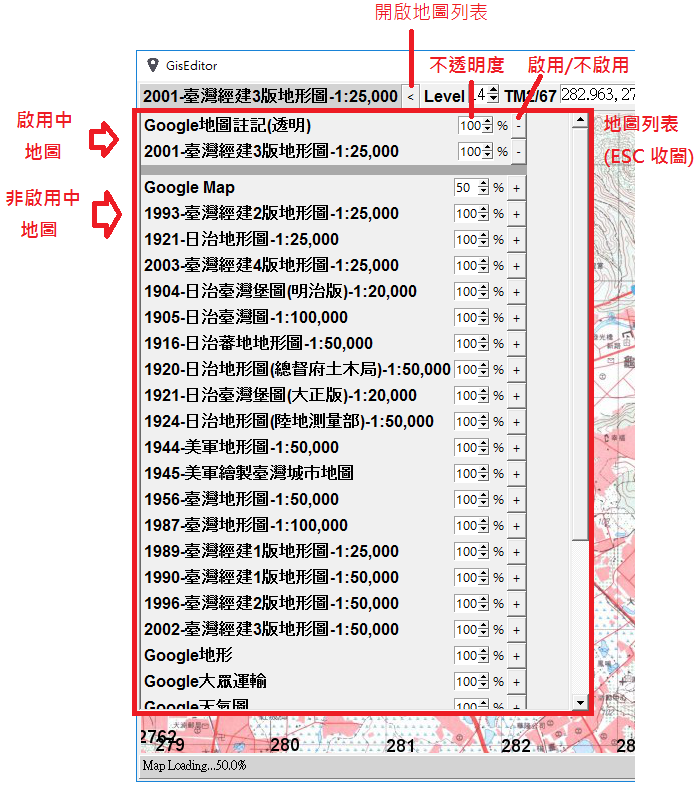
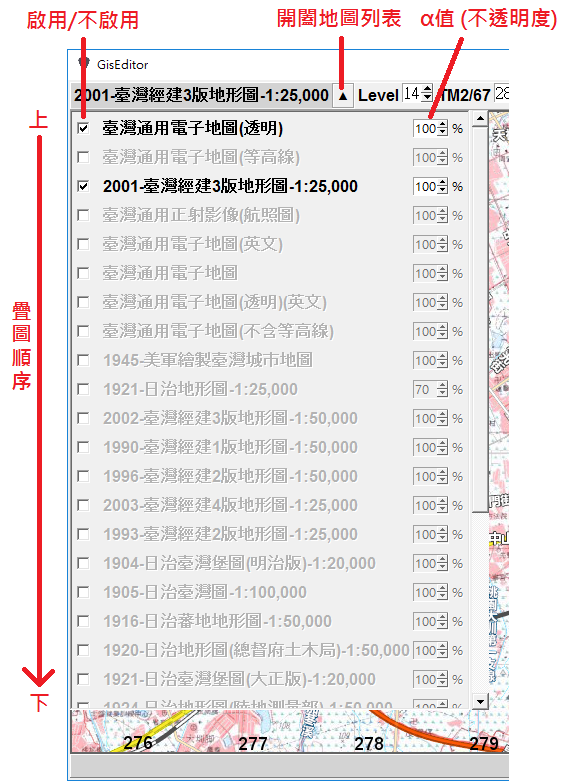
[Doc] Amend the Manual for Maplist

diff --git a/manual.md b/manual.md
@@ -180,23 +180,22 @@
      *  系統會讀取 `$GISEDITOR_HOME/mapcache` 的 XML 檔，格式可參考 [MOBAC customMapSource][custom_map_source]。
 
 2. 開啟地圖列表
-     * 點選地圖名稱旁的`[v]按鈕`可展開地圖列表。
+     * 點選地圖名稱旁的`[▼]按鈕`可展開地圖列表。
 
 3. 收闔地圖列表
-     * 按`ESC鍵`或地圖名稱旁的`[^]按鈕`可收起地圖列表
+     * 按`ESC鍵`或地圖名稱旁的`[▲]按鈕`可收起地圖列表
 
-4. 啟用地圖
-     * 按 [+] 鈕可啟用地圖，預設會放置於圖層最下方。
+4. 啟用/不啟用地圖
+     * 勾選checkbox可啟用地圖，不勾選則不啟用地圖。
 
-5. 不啟用地圖
-     * 按 [-] 鈕可不啟用地圖。
-
-6. 調整不透明度
+5. 調整不透明度(α值)
      * 百分比可調整地圖的不透明度，100%為完全不透明，0%表示完全透明。
 
-7. 疊圖順序
+6. 疊圖順序
      * *疊圖順序*即為啟用中的地圖*由上而下*之順序。
-     * 目前尚無直接調整順序的方法，可先將所有地圖不啟用，再依序啟用欲選擇的地圖。
+     * 可按住地圖名稱，拖曳插入以調整順序。
+
+    ![拖曳疊圖順序][img_maplist_dnd]
 
 [custom_map_source]: http://mobac.sourceforge.net/wiki/index.php/Custom_XML_Map_Sources#customMapSource
 [img_main]: https://github.com/dayanuyim/GisEditor/raw/dev/doc/pic/02_main.png
@@ -207,3 +206,4 @@
 [img_trkboard]: https://github.com/dayanuyim/GisEditor/raw/dev/doc/pic/07_trk_board.png
 [img_saveimage]: https://github.com/dayanuyim/GisEditor/raw/dev/doc/pic/08_save_image.png
 [img_maplist]: https://github.com/dayanuyim/GisEditor/raw/dev/doc/pic/09_maplist.png
+[img_maplist_dnd]: https://github.com/dayanuyim/GisEditor/raw/dev/doc/pic/10_maplist_dnd.png
